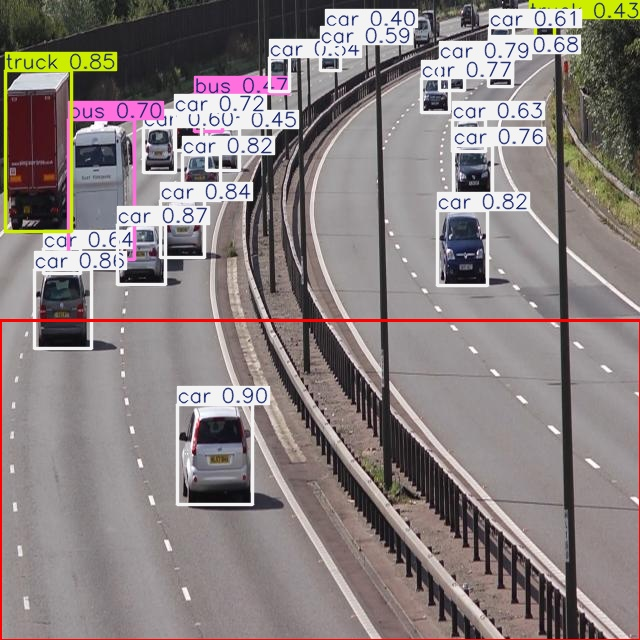
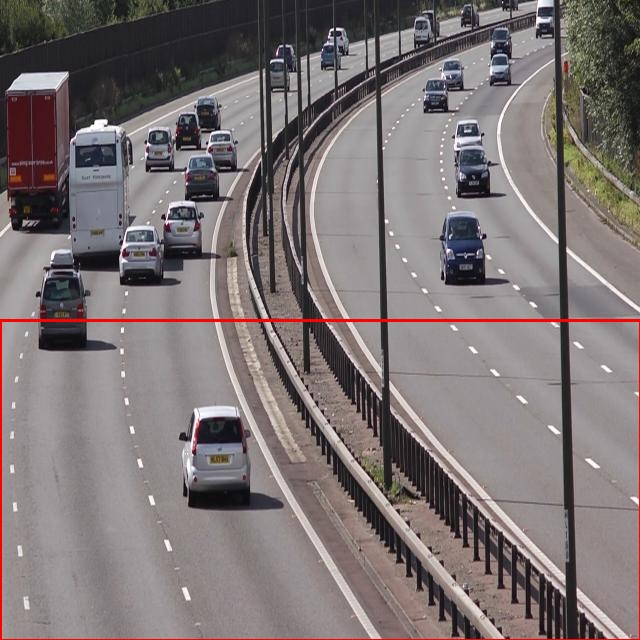
updated detector

Changed region(s): [[0.0, 0.0, 1.0, 0.5625], [0.25, 0.5938, 0.4375, 0.8125]]

diff --git a/vehicle_detector/detector.py b/vehicle_detector/detector.py
@@ -39,7 +39,7 @@ class VehicleDetector:
                         count += 1
 
             # Draw all detections
-            annotated_img = result.plot()
+            annotated_img = image.copy()
 
             # Draw the detection zone (bottom half box)
             cv2.rectangle(annotated_img, (detection_zone[0], detection_zone[1]),
